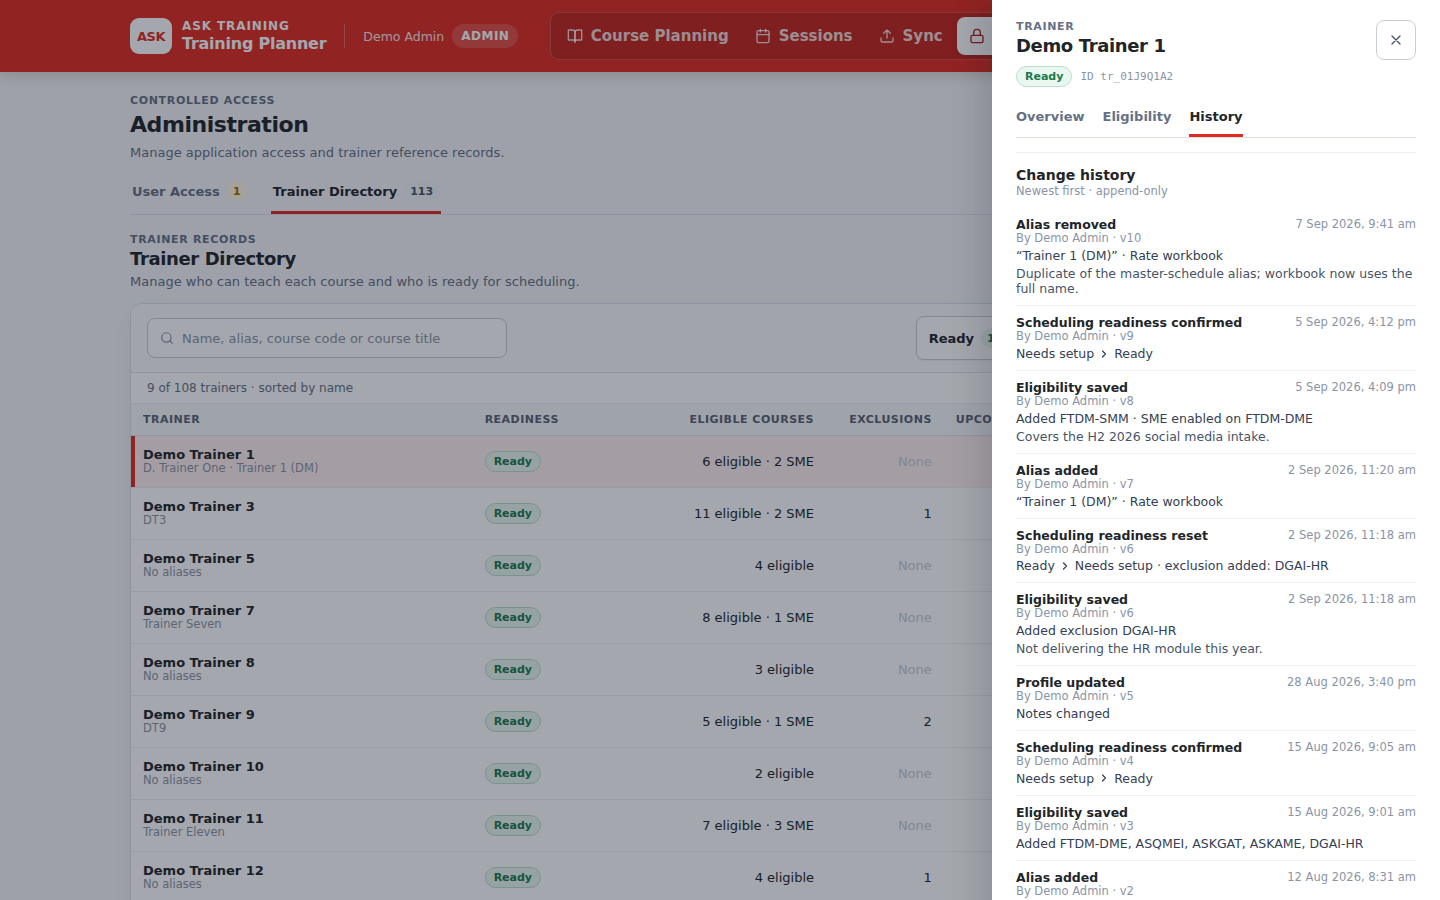
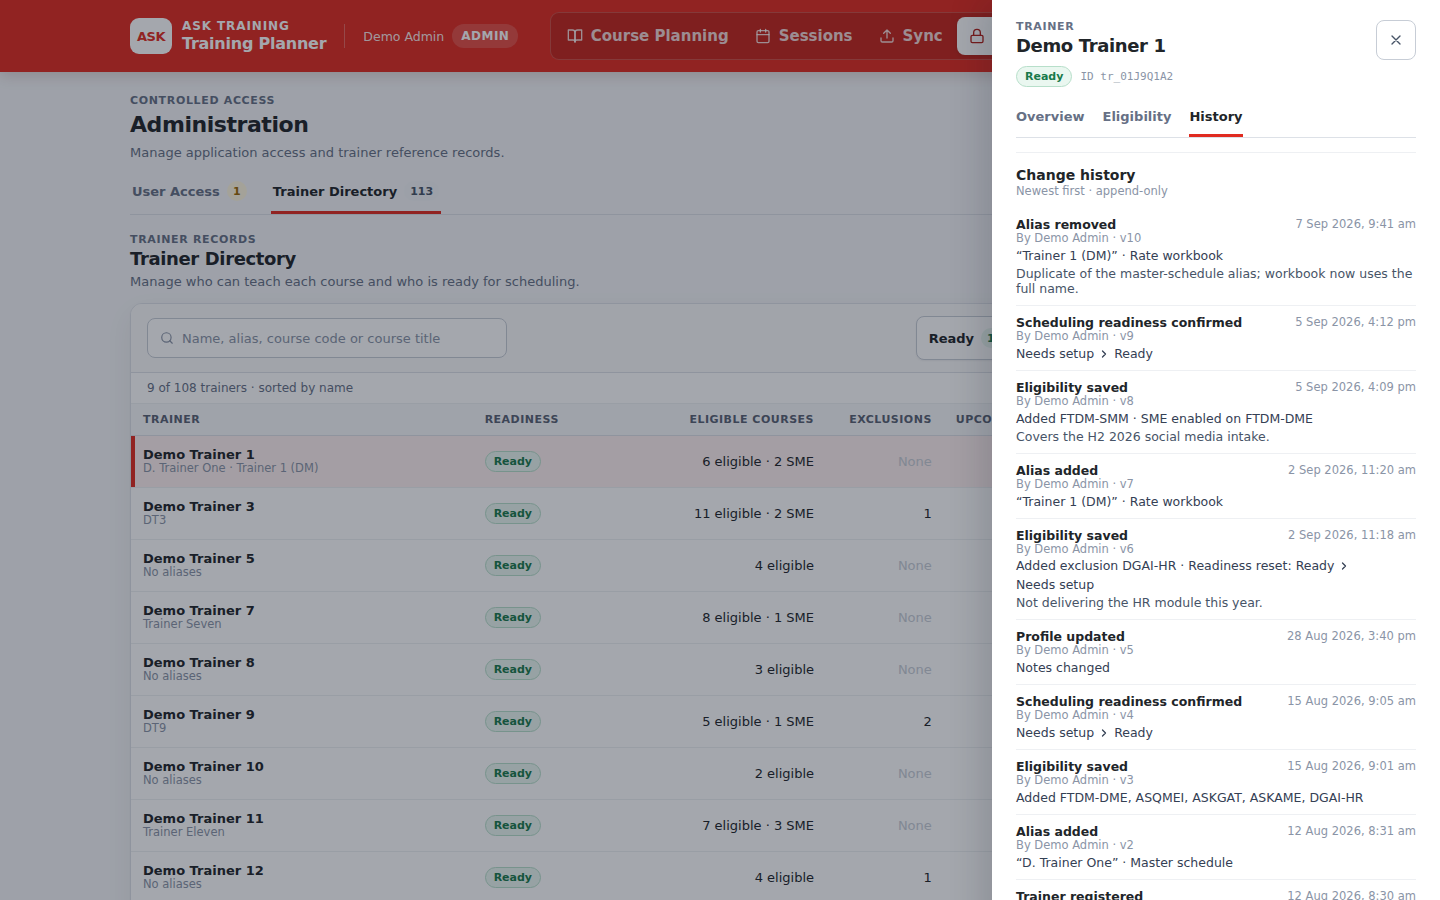
docs: correct PR3J V9 design inputs

Changed region(s): [[0.6875, 0.5911, 1.0, 1.0]]

diff --git a/docs/03-design/admin-pr3j/README.md b/docs/03-design/admin-pr3j/README.md
@@ -1,6 +1,6 @@
-# PR3J — Admin Trainer Directory — design inputs V8 (single reference)
+# PR3J — Admin Trainer Directory — design inputs V9 (single reference)
 
[2 lines of base64/hex data omitted]
 
 Artboards (`docs/03-design/admin-pr3j/`): `admin-directory-ready-1440.png`, `admin-directory-needs-setup-1440.png` (landing while count > 0), `admin-drawer-eligibility-1440.png` (unsaved; link + exclusion on the same course), `admin-drawer-confirm-ready-1440.png` (saved; confirmation dialog), `admin-drawer-overview-1440.png` (profile, aliases with Remove alias controls, record, lifecycle), `admin-remove-alias-confirm-1440.png` (removal confirmation), `admin-drawer-history-1440.png`, `admin-register-trainer-1440.png`, `admin-deactivate-confirm-1440.png`, `admin-directory-390.png`, `admin-drawer-eligibility-390.png`, `admin-drawer-eligibility-320.png`.
 
@@ -25,7 +25,7 @@ Artboards (`docs/03-design/admin-pr3j/`): `admin-directory-ready-1440.png`, `adm
 ## 3. Aliases [Owen: display + search + Add alias]
 
 - Scope **[Owen, 2026-09-06 and 2026-09-07]**: display, search, **Add alias** and audited **Remove alias**.
-- **Remove alias (contract):** each existing alias chip carries a remove control with accessible name `Remove [alias] alias` (visible × icon, `title` "Remove alias"; keyboard: Tab reaches each chip's control, Enter/Space opens the confirmation; focus returns to the chip list — to the next chip's control, or to **Add alias** when the removed chip was last). The confirmation dialog (≤ 520 px, `role="dialog"`, focus trapped, Escape cancels) shows the exact alias and its source label, the trainer name, ID and current version, the warning "Future imports may no longer match this alias." with the consequence (rows using that alias fall to manual resolution until mapped again), and a **required** audit note (1–500 characters, live count; Remove disabled until non-empty). Secondary Cancel, filled-danger **Remove alias**. No optimistic UI.
+- **Remove alias (contract):** each existing alias chip carries a remove control with accessible name `Remove [alias] alias` (visible × icon, `title` "Remove alias"; keyboard: Tab reaches each chip's control, Enter/Space opens the confirmation. Focus: Cancel, Escape, or a failed/stale removal restores focus to the original alias-removal control; only after a successful removal — when that control no longer exists — does focus move to the next chip's control, or to **Add alias** when the removed chip was last). The confirmation dialog (≤ 520 px, `role="dialog"`, focus trapped, Escape cancels) shows the exact alias and its source label, the trainer name, ID and current version, the warning "Future imports may no longer match this alias." with the consequence (rows using that alias fall to manual resolution until mapped again), and a **required** audit note (1–500 characters, live count; Remove disabled until non-empty). Secondary Cancel, filled-danger **Remove alias**. No optimistic UI.
 - Server: `DELETE /admin/trainers/:id/aliases/:aliasId` (or equivalent) requires the trainer's current `expectedVersion` and the note; in one transaction it removes the current alias mapping, increments `trainers.version`, and appends exactly one immutable `alias_removed` event whose `metadata` retains `{ aliasName, source, note }`; stale `expectedVersion` returns the typed 409 and nothing is written. The primary trainer name is not an alias and has no remove control; the route rejects any attempt to remove it. Earlier history is never modified. Success updates the drawer chips, the list/search results (the removed alias no longer matches) and the History tab together with a `role="status"` message "Alias "[alias]" removed." No rate data is read or written; PR3K reconciliation is untouched.
 - `trainer_aliases.alias_name` with source labels: `tms` and `schedule_excel` → "Master schedule", `rate_excel` → "Rate workbook", Admin-entered → "Admin entry". Shown as chips in the Overview tab and as a muted line under the name in the list; searchable.
 - Aliases are trimmed and case-normalised; unique index on `lower(btrim(alias_name))`; typed 409 on duplicate; migration preflight detects existing normalised duplicates and STOPS. Registration creates no alias automatically.
@@ -37,7 +37,7 @@ Artboards (`docs/03-design/admin-pr3j/`): `admin-directory-ready-1440.png`, `adm
 
 ## 5. Change history
 
-Append-only `trainer_change_events` on the `user_access_events` pattern (typed action enum, `actor_user_id` NOT NULL, before/after `is_active`, `scheduling_readiness`, `version`, `note` ≤ 500, JSONB `metadata`, append-only trigger). Actions: `trainer_created`, `trainer_updated`, `trainer_deactivated`, `trainer_reactivated`, `alias_added`, `alias_removed`, `course_access_changed`, `scheduling_readiness_changed`. One eligibility save produces one `course_access_changed` event whose `metadata` holds the structured diff (links added/removed, SME on/off, exclusions added/removed) and any automatic reset; the History tab renders that diff as human-readable lines ("Added FTDM-SMM · SME enabled on FTDM-DME", "Readiness reset: exclusion added DGAI-HR"). `alias_added` / `alias_removed` render as "Alias added" / "Alias removed" with the alias in quotes, its source label, the note and the resulting version. Newest first; actor display name or email, never a raw id unless nothing else exists; `D MMM YYYY, h:mm am/pm` Singapore; resulting version. No edit, delete or undo.
+Append-only `trainer_change_events` on the `user_access_events` pattern (typed action enum, `actor_user_id` NOT NULL, before/after `is_active`, `scheduling_readiness`, `version`, `note` ≤ 500, JSONB `metadata`, append-only trigger). Actions: `trainer_created`, `trainer_updated`, `trainer_deactivated`, `trainer_reactivated`, `alias_added`, `alias_removed`, `course_access_changed`, `scheduling_readiness_changed`. One eligibility save produces one `course_access_changed` event whose `metadata` holds the structured diff (links added/removed, SME on/off, exclusions added/removed) and any automatic reset; the History tab renders that diff as human-readable lines within the single event ("Added FTDM-SMM · SME enabled on FTDM-DME"; "Added exclusion DGAI-HR · Readiness reset: Ready → Needs setup"). A save that triggers a reset never produces a second event; the reset is part of the same `course_access_changed` entry. `alias_added` / `alias_removed` render as "Alias added" / "Alias removed" with the alias in quotes, its source label, the note and the resulting version. Newest first; actor display name or email, never a raw id unless nothing else exists; `D MMM YYYY, h:mm am/pm` Singapore; resulting version. No edit, delete or undo.
 
 ## 6. Deactivation and reactivation
 

diff --git a/docs/03-design/design-brief.md b/docs/03-design/design-brief.md
@@ -1,4 +1,4 @@
-# Training Planner — Design Brief (v1.2, 2026-09-07)
+# Training Planner — Design Brief (v1.3, 2026-09-07)
 
 Load this before any Claude Design canvas or UI critique for the Training Planner. It records what the current UI is, what the brand is, what the Lovable reference contributes, and the agreed direction. Facts come from `apps/web/src/styles.css`, `App.tsx`, `docs/01-product/planning-workflow-roadmap.md` on `main` @ `17f3168535869b93f8c3fc01b93a74c4f3d2a97b` — the PR3J target baseline (PR3G-V inputs were cut at `53bffa55` and are deployed in `0b97a9a7`), and the Lovable export "Project Spec UI 1" (TanStack Start + Tailwind v4 + shadcn; presentation reference only — its Supabase, TanStack, Tailwind/Radix, realtime and AI code are explicitly not to be imported).
 
@@ -85,9 +85,9 @@ Fixture vocabulary in mockups must come from the real model, not from sample dat
 - Venue renders `venue.name` (canonical: International Plaza, JTC Summit, Furama Hotel, Home-Based Learning, …), falling back to `venue.rawText` only when unresolved.
 - Navigation must be preserved on every viewport. On phones PR3G-V keeps the existing top-level tabs as a horizontally scrollable row; any new navigation pattern (e.g. bottom nav) is a separate proposal.
 
-## 7d. PR3J Admin — Trainer Directory canvas rules (V8, 2026-09-07)
+## 7d. PR3J Admin — Trainer Directory canvas rules (V9, 2026-09-07)
 
-The single PR3J UI/IX reference is `docs/03-design/admin-pr3j/README.md` (V8; target baseline `17f3168535869b93f8c3fc01b93a74c4f3d2a97b`), which merges the approved V5 canvas with the accepted parts of Sol's UI/IX specification. Rules that bind every artboard and the implementation: Admin stays one primary tab with an "Administration" header and a User Access / Trainer Directory section tablist (PR3K not surfaced). List states Ready / Needs setup / Inactive are mutually exclusive; Needs setup is the landing tab while its count is above zero. `is_active` is separate from `scheduling_readiness`; Confirm ready for scheduling is a separate action gated on active, one effective eligible course, exclusions acknowledged for the current eligibility version, and no unsaved changes. Reset rule (Owen, 2026-09-04, reaffirmed 2026-09-06): readiness and the acknowledgement reset only on deactivation, link removal or an exclusion being added; additive changes never reset. Links and exclusions are independent records — a course may be both, the exclusion wins and the row says "Excluded — unavailable for scheduling" (Owen, 2026-09-06). Trainer ID is server-generated and immutable, shown as metadata (Owen, 2026-09-06). Aliases are displayed with source labels (Master schedule / Rate workbook / Admin entry), searchable, addable and removable (Owen, 2026-09-06 and 2026-09-07): each alias chip has a control named "Remove [alias] alias"; removal requires a confirmation showing the exact alias and source, an import-matching warning and a required audit note (≤ 500), sends the current expectedVersion, and is one atomic write that removes the mapping, increments the version and appends one immutable `alias_removed` event carrying alias, source and note; the primary name is never removable; stale writes return a typed 409. Additive eligibility changes carry the exclusion acknowledgement forward to the new eligibility version without touching the original confirmation; reset triggers clear it. Deactivation shows the exact affected-upcoming-session count and requires an acknowledgement checkbox; reactivation returns to Needs setup. Append-only `trainer_change_events` with one `course_access_changed` event per save rendered as human-readable diff lines. Programme labels use seeded `programmes.name`; tones FTDM blue / FTIIO amber / DGAI purple / ASK standalone grey; exclusion and Needs setup use warning tones, danger is reserved for errors and destructive actions. One solid-red primary per artboard. Acceptance viewports 1440, 390 and 320; table `scrollWidth === clientWidth` at 1440; rows 52–60 px; document width equals the viewport on mobile.
+The single PR3J UI/IX reference is `docs/03-design/admin-pr3j/README.md` (V9; target baseline `17f3168535869b93f8c3fc01b93a74c4f3d2a97b`), which merges the approved V5 canvas with the accepted parts of Sol's UI/IX specification. Rules that bind every artboard and the implementation: Admin stays one primary tab with an "Administration" header and a User Access / Trainer Directory section tablist (PR3K not surfaced). List states Ready / Needs setup / Inactive are mutually exclusive; Needs setup is the landing tab while its count is above zero. `is_active` is separate from `scheduling_readiness`; Confirm ready for scheduling is a separate action gated on active, one effective eligible course, exclusions acknowledged for the current eligibility version, and no unsaved changes. Reset rule (Owen, 2026-09-04, reaffirmed 2026-09-06): readiness and the acknowledgement reset only on deactivation, link removal or an exclusion being added; additive changes never reset. Links and exclusions are independent records — a course may be both, the exclusion wins and the row says "Excluded — unavailable for scheduling" (Owen, 2026-09-06). Trainer ID is server-generated and immutable, shown as metadata (Owen, 2026-09-06). Aliases are displayed with source labels (Master schedule / Rate workbook / Admin entry), searchable, addable and removable (Owen, 2026-09-06 and 2026-09-07): each alias chip has a control named "Remove [alias] alias"; removal requires a confirmation showing the exact alias and source, an import-matching warning and a required audit note (≤ 500), sends the current expectedVersion, and is one atomic write that removes the mapping, increments the version and appends one immutable `alias_removed` event carrying alias, source and note; the primary name is never removable; stale writes return a typed 409; Cancel/Escape restores focus to the original remove control, and only a successful removal moves focus to the next chip or Add alias. A reset-triggering eligibility save is one `course_access_changed` event carrying the reset, never two. Additive eligibility changes carry the exclusion acknowledgement forward to the new eligibility version without touching the original confirmation; reset triggers clear it. Deactivation shows the exact affected-upcoming-session count and requires an acknowledgement checkbox; reactivation returns to Needs setup. Append-only `trainer_change_events` with one `course_access_changed` event per save rendered as human-readable diff lines. Programme labels use seeded `programmes.name`; tones FTDM blue / FTIIO amber / DGAI purple / ASK standalone grey; exclusion and Needs setup use warning tones, danger is reserved for errors and destructive actions. One solid-red primary per artboard. Acceptance viewports 1440, 390 and 320; table `scrollWidth === clientWidth` at 1440; rows 52–60 px; document width equals the viewport on mobile.
 
 ## 8. How to use this brief (governance as of PR #25, 2026-09-06)
 
